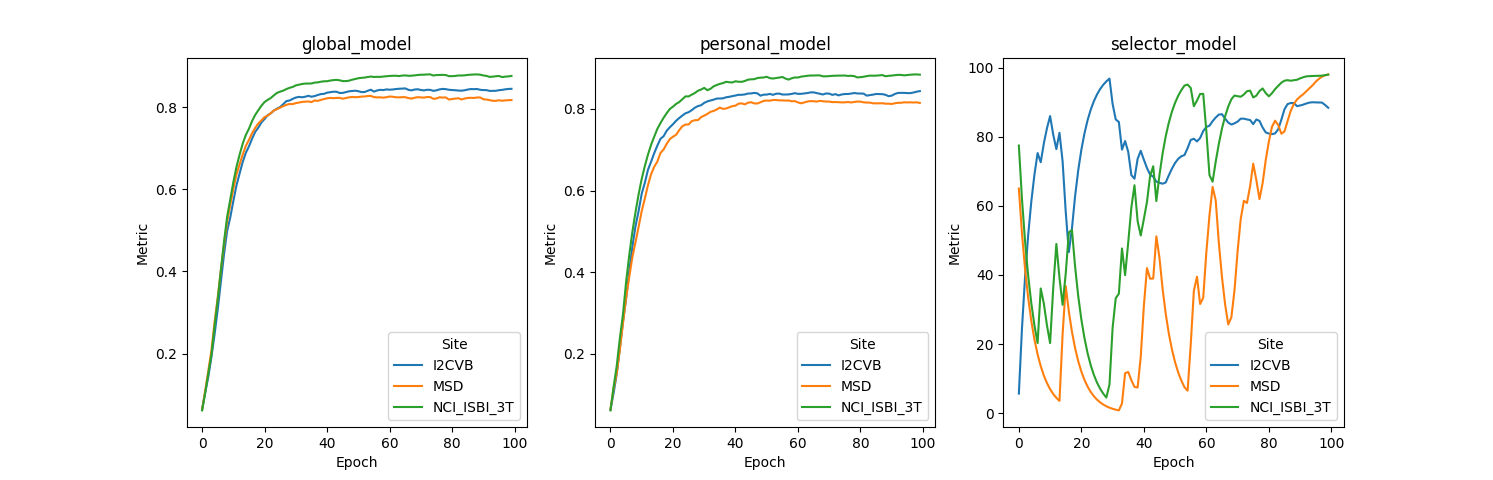
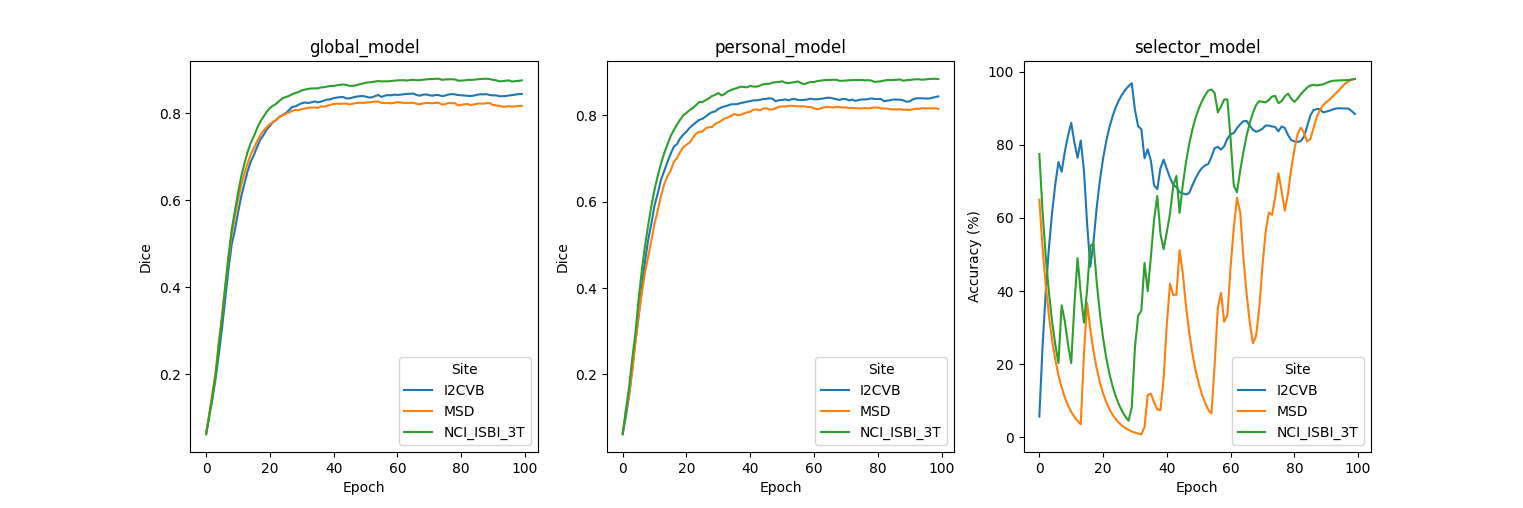
Update config, plot, requirement, and readme

diff --git a/research/fed-sm/result_stat/plot_tensorboard_events.py b/research/fed-sm/result_stat/plot_tensorboard_events.py
@@ -20,7 +20,7 @@ import seaborn as sns
 import tensorflow as tf
 
 # simulator workspace
-client_results_root = "/tmp/nvflare/fedsm_prostate/"
+client_results_root = "../workspaces/fedsm_prostate/"
 client_pre = "app_client_"
 
 # 3 sites
@@ -94,7 +94,10 @@ def main():
         ax = plt.subplot(1, int(num_metric), i)
         ax.set_title(metric)
         sns.lineplot(x="Epoch", y="Metric", hue="Site", data=data)
-        # ax.set_xlim([0, 1000])
+        if metric == "selector_model":
+            plt.ylabel("Accuracy (%)")
+        else:
+            plt.ylabel("Dice")
         i = i + 1
     plt.subplots_adjust(hspace=0.3)
     plt.show()

diff --git a/research/fed-sm/README.md b/research/fed-sm/README.md
@@ -11,6 +11,8 @@ which is a PyTorch-based, open-source framework for deep learning in healthcare 
 This example illustrates the personalized federated learning algorithm [FedSM](https://arxiv.org/abs/2203.10144) accepted to [CVPR2022](https://cvpr2022.thecvf.com/). 
 It bridges the different data distributions across clients via a SoftPull mechanism and utilizes a Super Model. 
 
+Please note that the training of the selector model shown in this example is to predict the specific client from an input image. Hence, it is an extreme case of label imbalance: each local training only have access to one of the labels. In order to train the model successfully, the moments of Adam optimizer need to be averaged and synced together with model updates. This label imbalance across clients also lead to significant fluctuation of the validation curve (as shown below) before converging to high accuracy for all clients.   
+
 ## Multi-source Prostate Segmentation
 This example uses 2D (axial slices) segmentation of the prostate in T2-weighted MRIs based on multiple datasets.
 
@@ -54,8 +56,6 @@ python3 ./result_stat/plot_tensorboard_events.py
 The TensorBoard curves (smoothed with weight 0.8) for validation Dice for the 100 epochs (100 rounds, 1 local epoch per round) during training are shown below:
 ![All training curve](./figs/all_training.png)
 
-As shown, FedSM personalized models can achieve better validation accuracy than global model, and the selector model is able to distinct among sites  
-
 ### Testing score
 The testing score is computed based on the Super Model for FedSM.
 We provide a script for performing validation on testing data split. 
@@ -65,6 +65,7 @@ Please add the correct paths below, and run:
 python3 ./result_stat/prostate_2d_test_only.py --models_dir "${workspace_path}/fedsm_prostate/simulate_job/app_server/" --dataset_base_dir ${dataset_path} --datalist_json_path "${datalist_json_path}"
 ```
 The test Dice with FedSM model is 0.7274, while using global model only (setting `--select_threshold 1`), the test Dice is 0.7178.
+FedSM personalized models can achieve better accuracy than global model, and the selector model is able to distinct among sites.  
 
 ## Citation
 
